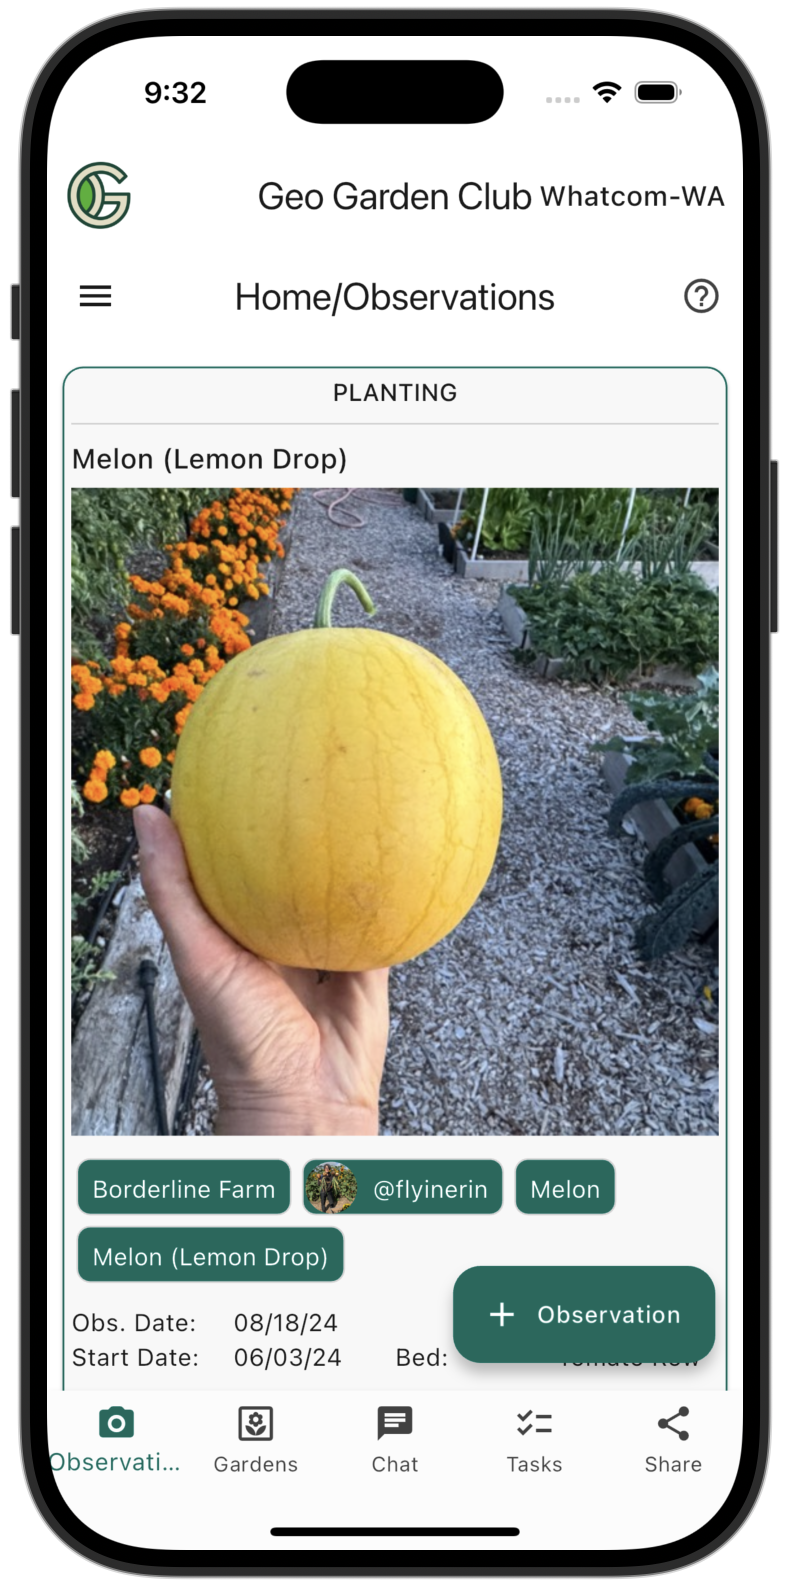
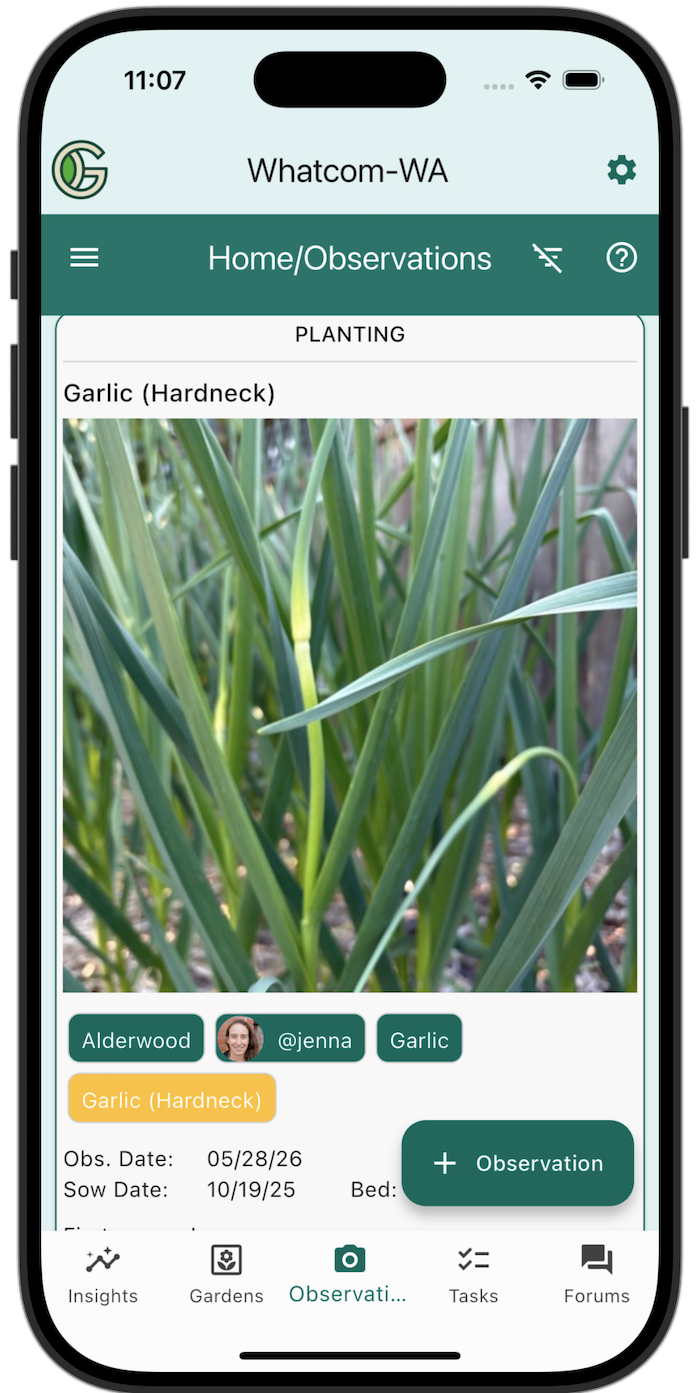
updates to landing page.

diff --git a/src/components/LandingPanel10/index.js b/src/components/LandingPanel10/index.js
@@ -5,23 +5,14 @@ import ReactPlayer from "react-player/youtube";
 export default function LandingPanel10() {
     return (
         <div className="hero hero--primary">
-            <div className="row row--no-gutters">
                 <div className="col">
-                    <div className="text--center">
-                        <div className='wrapper'>
-                            <ReactPlayer className='player' url="https://www.youtube.com/watch?v=X6ke44oduOQ" width="100%" height="100%" ></ReactPlayer>
-                        </div>
+                    <div className="container">
+                        <h1 className="hero__title text--center">Watch GeoGardenClub in action</h1>
+                        <iframe src="https://www.youtube.com/embed/X6ke44oduOQ"
+                                style={{width: "100%", aspectRatio: "16 / 9", height: "auto"}} frameBorder="0"
+                                allowFullScreen></iframe>
                     </div>
                 </div>
-                <div className="col" style={{paddingLeft: '100px', alignItems: 'center', display: 'flex'}}>
-                    <div className="text--center">
-                        <h1 className="hero__title">Watch this to learn how GeoGardenClub helps you grow and share your harvest</h1>
-                        <h1 className="hero__subtitle">Or check out our user guide for comprehensive information about the app.  </h1>
-                        <Button style={{marginBottom: '2em', marginTop: '1em'}} size='lg' variant="success" label="User Guide"
-                                link="/docs/user-guide/overview"/>
-                    </div>
-                </div>
-            </div>
         </div>
     );
 }

diff --git a/src/components/LandingPanel11/index.js b/src/components/LandingPanel11/index.js
@@ -6,32 +6,32 @@ export default function LandingPanel11() {
       <div className="container">
         <div className="row" style={{paddingBottom: '32px'}}>
             <div className='col'>
-                <div className="text--center">
-                    <h1 className="hero__title">Connect with us!</h1>
-                    <h1 className="hero__subtitle">Be the first to learn about new features, events, and get tips on utilizing GeoGardenClub to its fullest.</h1>
+                <div className="container">
+                    <h1 className="hero__title text--center">Connect with us</h1>
+                    <p className="hero__subtitle text--left">Learn about the latest GeoGardenClub features, events, and tips.</p>
                 </div>
             </div>
         </div>
           <div className="row">
               <div className='col'>
                   <div className="text--center">
-                      <a href="https://www.instagram.com/geogardenclub/"><img height="125px" style={{paddingBottom: '20px'}} src="/instagram/instagram.png"/></a>
+                      <a href="https://www.instagram.com/geogardenclub/"><img width="20%" style={{paddingBottom: '20px'}} src="/instagram/instagram.png"/></a>
                   </div>
               </div>
               <div className='col'>
                   <div className="text--center">
-                      <a href="https://www.facebook.com/geogardenclub"><img height="125px" style={{paddingBottom: '20px'}} src="facebook/facebook.png"/></a>
+                      <a href="https://www.facebook.com/geogardenclub"><img width="20%" style={{paddingBottom: '20px'}} src="facebook/facebook.png"/></a>
                   </div>
               </div>
               <div className='col'>
                   <div className="text--center">
-                      <a href="https://www.youtube.com/@geogardenclub"><img height="125px" style={{paddingBottom: '20px'}} src="youtube/youtube.png"/></a>
+                      <a href="https://www.youtube.com/@geogardenclub"><img width="20%" style={{paddingBottom: '20px'}} src="youtube/youtube.png"/></a>
                   </div>
               </div>
               <div className='col'>
                   <div className="text--center">
                       <div className="hero__title">
-                      <a href="https://geogardenclub.us10.list-manage.com/subscribe?u=2c9db5ab59b4602f6c71e2091&id=c75bee0e1e"><img height="125px" style={{paddingBottom: '20px'}} src="img/landing/mailing-list.png"/></a>
+                      <a href="https://geogardenclub.us10.list-manage.com/subscribe?u=2c9db5ab59b4602f6c71e2091&id=c75bee0e1e"><img width="20%" style={{paddingBottom: '20px'}} src="img/landing/mailing-list.png"/></a>
                       </div>
                   </div>
               </div>

diff --git a/src/components/LandingPanel8/index.js b/src/components/LandingPanel8/index.js
@@ -4,16 +4,16 @@ import Button from '@site/src/components/Button';
 export default function LandingPanel8() {
     return (
         <div className="hero hero--primary">
-            <div className="row row--no-gutters">
+            <div className="row">
                 <div className="col">
                     <div className="text--center">
-                        <img height="450px" src="img/landing/share-screen.png"/>
+                        <img height="450px" src="img/landing/forum.png"/>
                     </div>
                 </div>
-                <div className="col" style={{alignItems: 'center', display: 'flex'}}>
-                    <div className="text--center">
-                        <h1 className="hero__title">Waste Less.</h1>
-                        <h1 className="hero__subtitle">Share and trade surplus seeds, harvests, tools, and materials with other local gardeners.  </h1>
+                <div className="col">
+                    <div className="container">
+                        <h1 className="hero__title text--center">Waste Less</h1>
+                        <p className="hero__subtitle text--left">Share and trade surplus seeds, harvests, tools, and materials with other local gardeners.  </p>
                     </div>
                 </div>
             </div>

diff --git a/src/components/LandingPanel5/index.js b/src/components/LandingPanel5/index.js
@@ -3,11 +3,11 @@ import React from 'react';
 export default function LandingPanel5() {
     return (
         <div className="hero" style={{backgroundColor: "#e3ddc2"}}>
-            <div className="row row--no-gutters">
-                <div className="col" style={{alignItems: 'center', display: 'flex'}}>
-                        <div className="text--center">
-                            <h1 className="hero__title">Plan Better.</h1>
-                            <h1 className="hero__subtitle">Copy plantings from previous seasons or other gardeners to quickly and efficiently plan out your garden.</h1>
+            <div className="row">
+                <div className="col">
+                        <div className="container text--center">
+                            <h1 className="hero__title">Plan Better</h1>
+                            <p className="hero__subtitle text--left">Copy plantings from previous seasons or other gardeners to quickly and efficiently plan your garden.</p>
                     </div>
                 </div>
                 <div className="col">

diff --git a/src/components/LandingPanel6/index.js b/src/components/LandingPanel6/index.js
@@ -4,16 +4,16 @@ import Button from '@site/src/components/Button';
 export default function LandingPanel6() {
     return (
         <div className="hero hero--primary">
-            <div className="row row--no-gutters">
+            <div className="row">
                 <div className="col">
                     <div className="text--center">
                         <img height="450px" src="img/landing/tasks-screen.png"/>
                     </div>
                 </div>
-                <div className="col" style={{alignItems: 'center', display: 'flex'}}>
-                    <div className="text--center">
-                        <h1 className="hero__title">Manage Easier.</h1>
-                        <h1 className="hero__subtitle">Stay on track with our smart task list, keeping your plans automatically up to date.</h1>
+                <div className="col">
+                    <div className="container text--center">
+                        <h1 className="hero__title">Manage Easier</h1>
+                        <p className="hero__subtitle text--left">Stay on track with our smart task list, keeping your plans automatically up to date.</p>
                     </div>
                 </div>
             </div>

diff --git a/src/components/LandingPanel7/index.js b/src/components/LandingPanel7/index.js
@@ -3,11 +3,11 @@ import React from 'react';
 export default function LandingPanel7() {
     return (
         <div className="hero" style={{backgroundColor: "#e3ddc2"}}>
-            <div className="row row--no-gutters">
-                <div className="col" style={{alignItems: 'center', display: 'flex'}}>
-                        <div className="text--center">
-                            <h1 className="hero__title">Harvest More.</h1>
-                            <h1 className="hero__subtitle">Record observations and yields to track success of each planting and improve your garden next year.</h1>
+            <div className="row">
+                <div className="col">
+                        <div className="container">
+                            <h1 className="hero__title text--center">Harvest More</h1>
+                            <p className="hero__subtitle text--left">Record observations and yields to track success of each planting and improve your garden next year.</p>
                     </div>
                 </div>
                 <div className="col">

diff --git a/src/components/LandingPanel8a/index.js b/src/components/LandingPanel8a/index.js
@@ -4,15 +4,15 @@ export default function LandingPanel8a() {
     return (
         <div className="hero" style={{backgroundColor: "#e3ddc2"}}>
             <div className="row ">
-                <div className="col" style={{alignItems: 'center', display: 'flex'}}>
-                        <div className="text--center">
-                            <h1 className="hero__title">Build Community.</h1>
-                            <h1 className="hero__subtitle">Improve your gardening skills with your neighbors and make new friends.</h1>
+                <div className="col">
+                        <div className="container">
+                            <h1 className="hero__title text--center">Build Community</h1>
+                            <p className="hero__subtitle text--left">Improve your gardening skills with your neighbors and make new friends.</p>
                     </div>
                 </div>
                 <div className="col">
                     <div className="text--center">
-                    <img height="450px" src="img/landing/chat.png"/>
+                    <img height="450px" src="img/landing/chapter-index-gardeners.png"/>
                     </div>
                 </div>
             </div>

diff --git a/src/components/LandingPanel1a/index.js b/src/components/LandingPanel1a/index.js
@@ -7,8 +7,8 @@ export default function LandingPanel1a() {
         <div className="row">
             <div className='col'>
                 <div className="text--center">
-                    <h1 className="hero__title">Why GeoGardenClub</h1>
-                    <p className="hero__subtitle text--left">So that you can grow more food with help from gardeners near you.  </p>
+                    <h1 className="hero__title">Why GeoGardenClub?</h1>
+                    <p className="hero__subtitle text--left">So you can grow more food with help from gardeners near you.  </p>
                     <p className="hero__subtitle text--left">GeoGardenClub combines a local gardening community, garden planner, planting calendar, and multi-season garden journal in one app.  </p>
                     <p className="hero__subtitle text--left">Learn what works best in your area, plan your garden, track progress across seasons, and share resources. </p>
                 </div>

diff --git a/src/components/LandingPanel3/index.js b/src/components/LandingPanel3/index.js
@@ -4,8 +4,8 @@ import Button from '@site/src/components/Button';
 export default function LandingPanel3() {
     return (
         <div style={{backgroundColor: "#e3ddc2"}}>
-            <div className="row row--no-gutters" style={{backgroundColor: "#e3ddc2"}}>
-                <div className="col" style={{alignItems: 'center', display: 'flex'}}>
+            <div className="row" style={{backgroundColor: "#e3ddc2"}}>
+                <div className="col">
                     <div className="hero" style={{backgroundColor: "#e3ddc2"}}>
                         <div className="container text--center">
                             <h1 className="hero__title">New to GeoGardenClub?</h1>

diff --git a/src/css/custom.css b/src/css/custom.css
@@ -39,6 +39,10 @@ Retrieved 2026-05-28, License - CC BY-SA 4.0
   --docusaurus-highlighted-code-line-bg: rgba(0, 0, 0, 0.3);
 }
 
+h1 {
+  font-size: 2.5rem !important;
+}
+
 .wrapper {
   position: relative;
   padding-top: 56.25% /* Player ratio: 100 / (1280 / 720) */

diff --git a/src/components/LandingPanel1/index.js b/src/components/LandingPanel1/index.js
@@ -10,7 +10,7 @@ export default function LandingPanel1({image}) {
         <div className="row">
             <div className='col' style={{alignItems: 'center', display: 'flex'}}>
                 <div className='text--center padding-horiz--md' >
-                    <h1 className={styles.outline} style={{fontSize: '84px', color: 'white'}}>Grow and share more food.</h1>
+                    <h2 className={styles.outline} style={{fontSize: '4rem', color: 'white'}}>Grow and share more food.</h2>
                 </div>
             </div>
             <div className='col'>

diff --git a/src/components/LandingPanel4/index.js b/src/components/LandingPanel4/index.js
@@ -7,7 +7,7 @@ export default function LandingPanel4() {
         <div className="row" style={{paddingBottom: '32px'}}>
             <div className='col'>
                 <div className="text--center">
-                    <h1 className="hero__title">Here's what gardeners are saying:</h1>
+                    <h1 className="hero__title">Here's what gardeners are saying</h1>
                 </div>
             </div>
         </div>